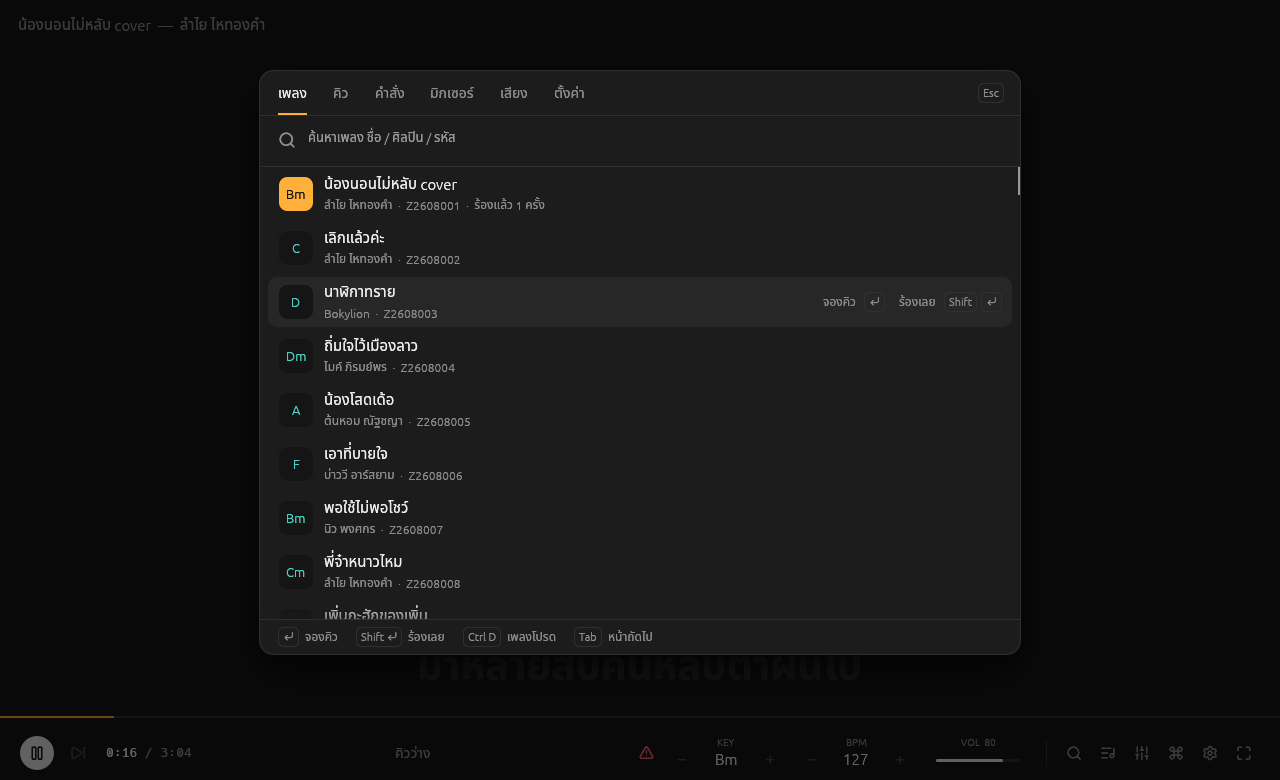
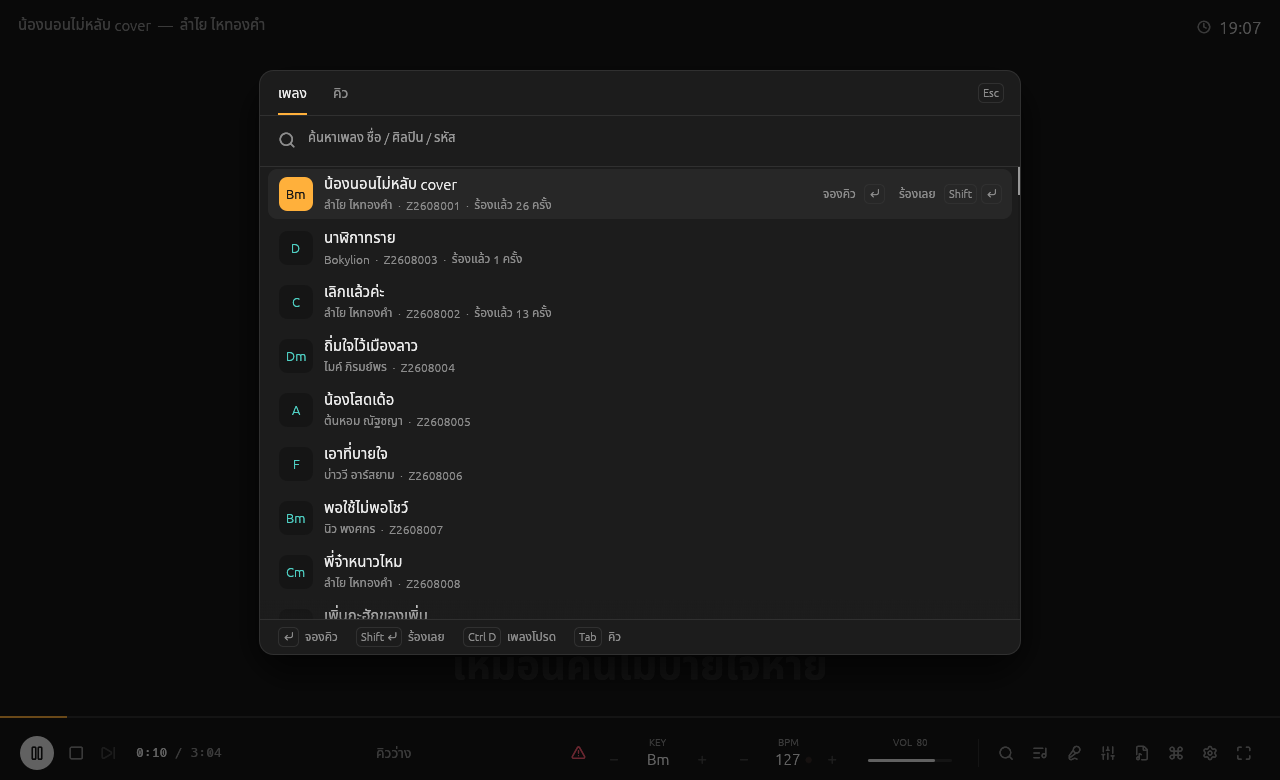
Karaoke: commands, settings and about as popups; mixer header padding
- The song panel keeps two tabs, songs and queue (Tab switches); all
  commands (Ctrl K), settings (Ctrl ,) and About open as popups of their
  own with a title, Esc and a close button, and a footer that fits them.
- More room above the mixer header so its text no longer sits against
  the panel edge (the panel is 6 px taller to keep the strips whole).

Claude-Session: https://claude.ai/code/session_01E3546E88DePuGSRtsqiRAW

diff --git a/app/karaoke/src/ui/overlay/mod.rs b/app/karaoke/src/ui/overlay/mod.rs
@@ -1,5 +1,6 @@
 //! The command overlay: one panel over the stage for everything that is not
-//! singing. Pages: songs, queue, commands, settings and about (files and folders
+//! singing. Songs and queue are tabs of one panel; commands, settings and
+//! about open as popups of their own (files and folders
 //! are picked with the system's own dialogs). List pages share one keyboard model:
 //! type to filter, Up / Down to move, Enter to act, Shift+Enter for the
 //! second action, Tab to switch page, Esc to close.
@@ -25,13 +26,19 @@ pub enum Page {
     About,
 }
 
-const TABS: [(Page, &str); 5] = [
-    (Page::Songs, "เพลง"),
-    (Page::Queue, "คิว"),
-    (Page::Commands, "คำสั่ง"),
-    (Page::Settings, "ตั้งค่า"),
-    (Page::About, "เกี่ยวกับ"),
-];
+/// Songs and queue share one panel with tabs; the other pages are popups
+/// of their own.
+const TABS: [(Page, &str); 2] = [(Page::Songs, "เพลง"), (Page::Queue, "คิว")];
+
+/// Icon, title and width of a page shown as a popup of its own.
+fn popup(page: Page) -> Option<(&'static str, &'static str, f32)> {
+    match page {
+        Page::Commands => Some((icons::COMMAND, "คำสั่งทั้งหมด", 640.0)),
+        Page::Settings => Some((icons::SETTINGS, "ตั้งค่า", 760.0)),
+        Page::About => Some((icons::INFO, "เกี่ยวกับ", 660.0)),
+        Page::Songs | Page::Queue => None,
+    }
+}
 
 pub struct Overlay {
     pub page: Page,
@@ -129,10 +136,10 @@ fn panel(app: &mut KaraokeApp, ov: &mut Overlay, ctx: &egui::Context) -> Outcome
     if !crate::ui::popup_open(ctx) && key(Modifiers::NONE, Key::Escape) {
         return Outcome::Close;
     }
-    if key(Modifiers::SHIFT, Key::Tab) {
+    if popup(ov.page).is_none() && key(Modifiers::SHIFT, Key::Tab) {
         return Outcome::Goto(cycle(ov.page, -1));
     }
-    if key(Modifiers::NONE, Key::Tab) {
+    if popup(ov.page).is_none() && key(Modifiers::NONE, Key::Tab) {
         return Outcome::Goto(cycle(ov.page, 1));
     }
     if ov.is_list() && !list.is_empty() {
@@ -206,7 +213,7 @@ fn panel(app: &mut KaraokeApp, ov: &mut Overlay, ctx: &egui::Context) -> Outcome
         })
         .inner;
 
-    let width = (screen.width() - 48.0).min(760.0);
+    let width = (screen.width() - 48.0).min(popup(ov.page).map_or(760.0, |p| p.2));
     let max_list = (screen.height() * 0.58).max(160.0);
     let mut result = Outcome::Stay;
     egui::Area::new(egui::Id::new("overlay"))
@@ -221,8 +228,17 @@ fn panel(app: &mut KaraokeApp, ov: &mut Overlay, ctx: &egui::Context) -> Outcome
                 .show(ui, |ui| {
                     ui.set_width(width);
                     ui.spacing_mut().item_spacing = vec2(0.0, 0.0);
-                    if let Some(page) = tabs(app, ov, ui) {
-                        result = Outcome::Goto(page);
+                    match popup(ov.page) {
+                        Some((icon, title, _)) => {
+                            if title_bar(ui, icon, title) {
+                                result = Outcome::Close;
+                            }
+                        }
+                        None => {
+                            if let Some(page) = tabs(app, ov, ui) {
+                                result = Outcome::Goto(page);
+                            }
+                        }
                     }
                     divider(ui);
                     match ov.page {
@@ -246,8 +262,10 @@ fn panel(app: &mut KaraokeApp, ov: &mut Overlay, ctx: &egui::Context) -> Outcome
     result
 }
 
+/// The next tab (songs / queue); popups stay where they are.
 fn cycle(page: Page, d: i32) -> Page {
-    let i = TABS.iter().position(|t| t.0 == page).unwrap_or(0) as i32;
+    let Some(i) = TABS.iter().position(|t| t.0 == page) else { return page };
+    let i = i as i32;
     TABS[(i + d).rem_euclid(TABS.len() as i32) as usize].0
 }
 
@@ -284,6 +302,24 @@ fn tabs(app: &KaraokeApp, ov: &Overlay, ui: &mut egui::Ui) -> Option<Page> {
     }
     keycap(p, pos2(bar.right() - 16.0, bar.center().y), "Esc");
     go
+}
+
+/// Header of a popup page: icon and title, Esc and a close button.
+/// Returns true when the close button was clicked.
+fn title_bar(ui: &mut egui::Ui, icon: &str, title: &str) -> bool {
+    let (bar, _) = ui.allocate_exact_size(vec2(ui.available_width(), 48.0), Sense::hover());
+    let p = ui.painter();
+    let y = bar.center().y;
+    p.text(pos2(bar.left() + 20.0, y), Align2::LEFT_CENTER, icon, FontId::proportional(17.0), SUNG);
+    p.text(pos2(bar.left() + 46.0, y), Align2::LEFT_CENTER, title, FontId::proportional(16.0), TEXT);
+    let close = Rect::from_center_size(pos2(bar.right() - 26.0, y), vec2(28.0, 28.0));
+    let resp = ui.interact(close, ui.id().with("popup-close"), Sense::click());
+    if resp.hovered() {
+        ui.painter().rect_filled(close, CornerRadius::same(7), RAISED);
+    }
+    ui.painter().text(close.center(), Align2::CENTER_CENTER, icons::REMOVE, FontId::proportional(14.0), if resp.hovered() { TEXT } else { DIM });
+    keycap(ui.painter(), pos2(close.left() - 8.0, y), "Esc");
+    resp.on_hover_text("ปิด (Esc)").clicked()
 }
 
 fn search_field(ov: &mut Overlay, ui: &mut egui::Ui) {
@@ -384,7 +420,7 @@ fn list_ui(
 fn empty_text(app: &KaraokeApp, ov: &Overlay) -> String {
     match ov.page {
         Page::Songs if app.library.scanning() => "กำลังสแกนคลังเพลง…".into(),
-        Page::Songs if app.library.db.songs.is_empty() => "ยังไม่มีเพลง — เพิ่มโฟลเดอร์เพลงได้ที่แท็บ ตั้งค่า".into(),
+        Page::Songs if app.library.db.songs.is_empty() => "ยังไม่มีเพลง — เพิ่มโฟลเดอร์เพลงได้ที่ ตั้งค่า (Ctrl+,)".into(),
         Page::Songs => format!("ไม่พบ \"{}\"", ov.query),
         Page::Queue if app.queue.is_empty() => "คิวว่าง — แท็บ เพลง แล้วกด Enter เพื่อจอง".into(),
         _ => "ไม่พบ".into(),
@@ -495,10 +531,10 @@ pub fn keycap(p: &egui::Painter, right_center: egui::Pos2, key: &str) -> Rect {
 
 fn footer(page: Page, ui: &mut egui::Ui) {
     let hints: &[(&str, &str)] = match page {
-        Page::Songs => &[("↵", "จองคิว"), ("Shift ↵", "ร้องเลย"), ("Ctrl D", "เพลงโปรด"), ("Tab", "หน้าถัดไป")],
+        Page::Songs => &[("↵", "จองคิว"), ("Shift ↵", "ร้องเลย"), ("Ctrl D", "เพลงโปรด"), ("Tab", "คิว")],
         Page::Queue => &[("↵", "ร้องเลย"), ("Shift ↵", "ขึ้นเป็นเพลงถัดไป"), ("Alt ↑↓", "เลื่อน"), ("Del", "เอาออก")],
-        Page::Commands => &[("↵", "ทำคำสั่ง"), ("Tab", "หน้าถัดไป")],
-        Page::Settings | Page::About => &[("Tab", "หน้าถัดไป"), ("Esc", "ปิด")],
+        Page::Commands => &[("↵", "ทำคำสั่ง"), ("↑↓", "เลือก"), ("Esc", "ปิด")],
+        Page::Settings | Page::About => &[("Esc", "ปิด")],
     };
     let (bar, _) = ui.allocate_exact_size(vec2(ui.available_width(), 34.0), Sense::hover());
     let p = ui.painter();
@@ -658,8 +694,13 @@ mod tests {
     #[test]
     fn tab_cycles_through_pages() {
         assert_eq!(cycle(Page::Songs, 1), Page::Queue);
-        assert_eq!(cycle(Page::Settings, 1), Page::About);
-        assert_eq!(cycle(Page::About, 1), Page::Songs);
-        assert_eq!(cycle(Page::Songs, -1), Page::About);
+        assert_eq!(cycle(Page::Queue, 1), Page::Songs);
+        assert_eq!(cycle(Page::Songs, -1), Page::Queue);
+        // Commands, settings and about are popups of their own: no tabs.
+        for page in [Page::Commands, Page::Settings, Page::About] {
+            assert_eq!(cycle(page, 1), page);
+            assert!(popup(page).is_some());
+        }
+        assert!(popup(Page::Songs).is_none() && popup(Page::Queue).is_none());
     }
 }

diff --git a/app/karaoke/src/ui/mixer.rs b/app/karaoke/src/ui/mixer.rs
@@ -16,7 +16,7 @@ use crate::style::{self, ACCENT, DANGER, DIM, INK, LINE, RAISED, SUNG, TEXT};
 use crate::synth::{DRUM_CH, KIT, MELODY_CH, StripId, kit_name, volume_db};
 
 /// Panel height, strips included.
-pub const HEIGHT: f32 = 364.0;
+pub const HEIGHT: f32 = 370.0;
 const H: f32 = 298.0;
 const GAP: f32 = 3.0;
 const GROUP_GAP: f32 = 10.0;
@@ -82,7 +82,7 @@ pub fn show(app: &mut KaraokeApp, ui: &mut egui::Ui) {
     let master = vec![Column { kind: Kind::Master, number: icons::VOLUME.into(), name: "Master".into(), used: true }];
     let groups: [(&str, Vec<Column>); 4] = [("แชนแนล 1–16", channels), ("ชุดกลอง (ช่อง 10)", kit), ("เอฟเฟกต์", fx), ("รวม", master)];
 
-    egui::Frame::new().inner_margin(Margin { left: 16, right: 16, top: 10, bottom: 10 }).show(ui, |ui| {
+    egui::Frame::new().inner_margin(Margin { left: 16, right: 16, top: 16, bottom: 10 }).show(ui, |ui| {
         ui.horizontal(|ui| {
             ui.spacing_mut().item_spacing.x = 8.0;
             ui.label(egui::RichText::new(format!("{}  มิกเซอร์", icons::MIXER)).strong().color(TEXT));
